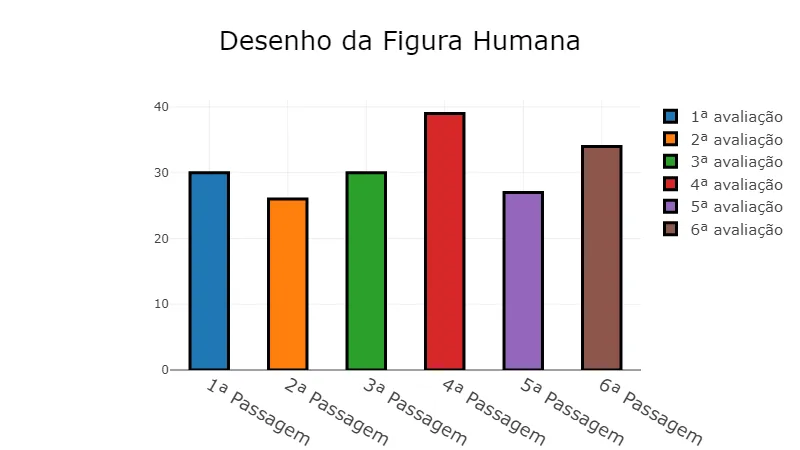
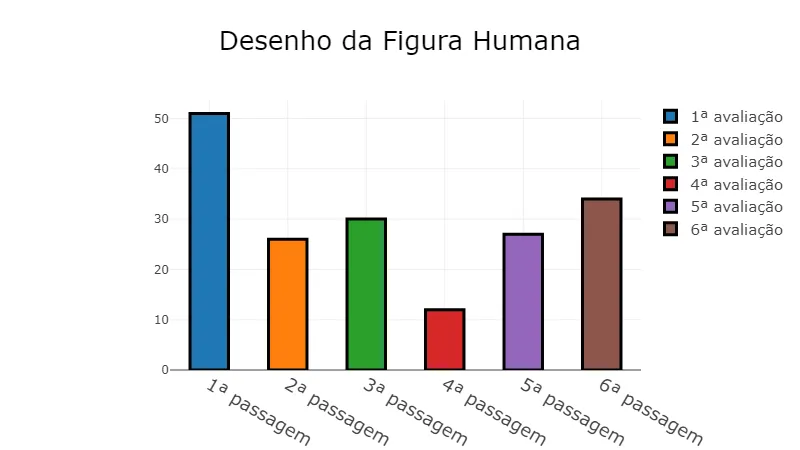
Finalizado o projeto, proximo passo é gerar o dockerfile.

diff --git a/psicomotricidade/paciente/graficos.py b/psicomotricidade/paciente/graficos.py
@@ -246,31 +246,29 @@ def grafico_de_barra_numeros_altos_fig_humana(dataframe, nome, nome_img):
     try:
 
         v = []
+        c = []
 
-
+        contador = 0
         for frame in dataframe:
-
             frame = frame.values
+            c.append([f"{contador + 1}ª passagem"])
 
             for i in frame:
 
                 trues = []
-
                 for valor in i:
                     if valor == True:
                         trues.append(valor)
 
                 inteiro = [int(trues.__len__())]
                 v.append(inteiro)
-
-
-        c = [["1ª Passagem"],["2ª Passagem"],["3ª Passagem"],["4ª Passagem"],["5ª Passagem"],["6ª Passagem"],["7ª Passagem"],["8ª Passagem"],["9ª Passagem"],]
-
+            contador = contador + 1
 
         fig = go.Figure()
+
         conta = 0
         for i in v:
-
+            print(conta)
             fig.add_trace(go.Bar(
                 x=c[conta],
                 y=v[conta],
